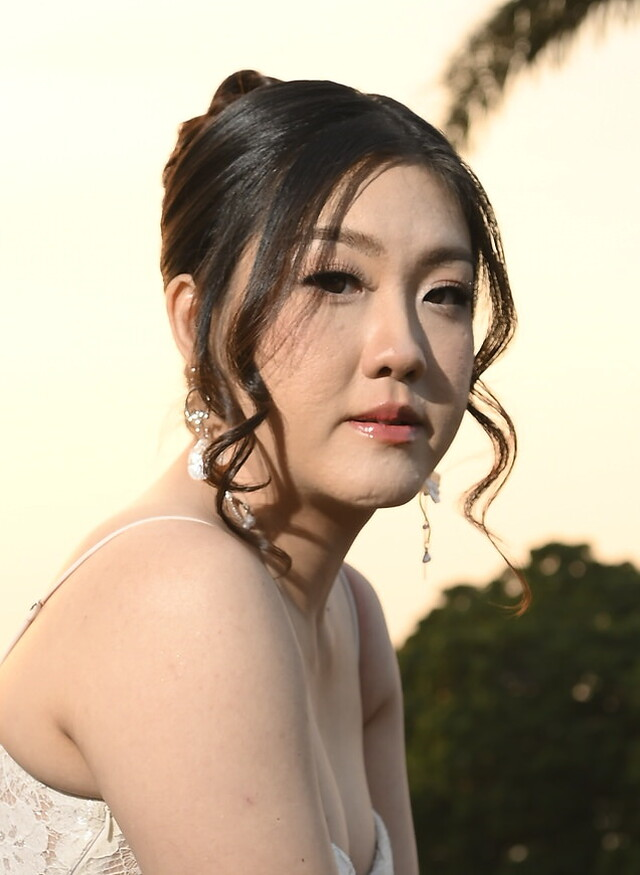
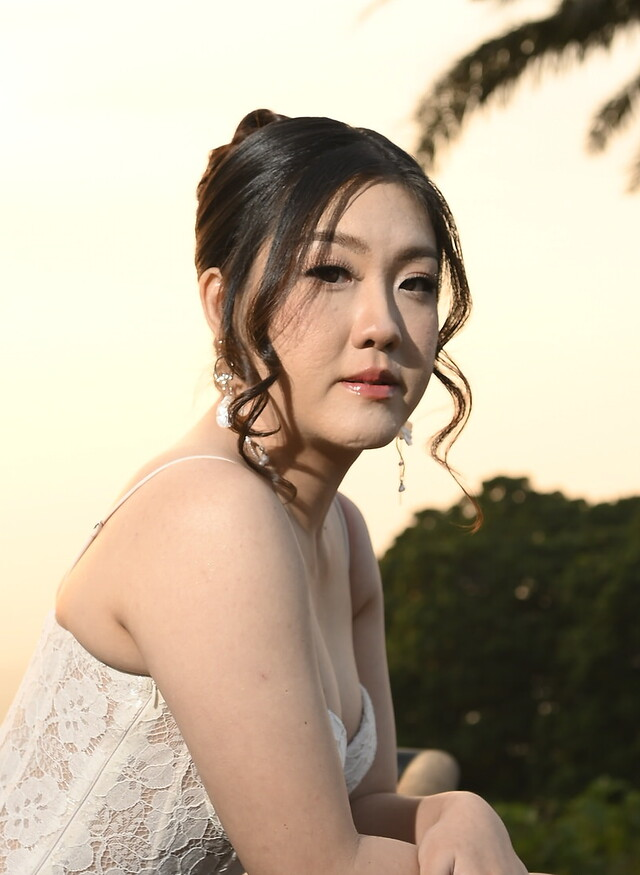
Bingkai potret jadi pill berdiri; Sioni di-zoom-out
.arch-photo border-radius jadi 999px (kapsul/stadium vertikal).
Sioni (0130) crop diperlebar (820x1120) supaya lebih zoom-out.
Cache: style.css ?v=fresco26, bride ?v=12.

Claude-Session: https://claude.ai/code/session_01GMSdUjAdfB16khtqgiAMZX

diff --git a/preview/index.html b/preview/index.html
@@ -12,7 +12,7 @@
   <link rel="preconnect" href="https://fonts.googleapis.com" />
   <link rel="preconnect" href="https://fonts.gstatic.com" crossorigin />
   <link href="https://fonts.googleapis.com/css2?family=Cormorant+Garamond:ital,wght@0,400;0,500;0,600;1,400;1,500&family=EB+Garamond:ital,wght@0,400;0,500;1,400&family=Great+Vibes&display=swap" rel="stylesheet" />
-  <link rel="stylesheet" href="css/style.css?v=fresco25" />
+  <link rel="stylesheet" href="css/style.css?v=fresco26" />
 </head>
 <body class="locked assemble">
 

diff --git a/preview/css/style.css b/preview/css/style.css
@@ -306,7 +306,7 @@ button { font: inherit; cursor: pointer; }
   width: min(15.5rem, 72vw);
   aspect-ratio: 3 / 4.1;
   margin: 0 auto 1.3rem;
-  border-radius: var(--arch-r) var(--arch-r) 14px 14px;
+  border-radius: 999px;
   overflow: hidden;
   box-shadow: 0 20px 40px -26px rgba(63, 78, 61, .55), inset 0 0 0 1px rgba(169, 143, 85, .3);
   background: var(--cream-deep);

diff --git a/preview/js/config.js b/preview/js/config.js
@@ -19,7 +19,7 @@ window.WEDDING_CONFIG = {
       full: "Sara Sioni Santoso",
       parents: "Putri dari Bapak Sie Djing San & Ibu Njoo Eng Lian",
       instagram: "",
-      photo: "../assets/img/bride.jpg?v=11",
+      photo: "../assets/img/bride.jpg?v=12",
     },
   },
 
